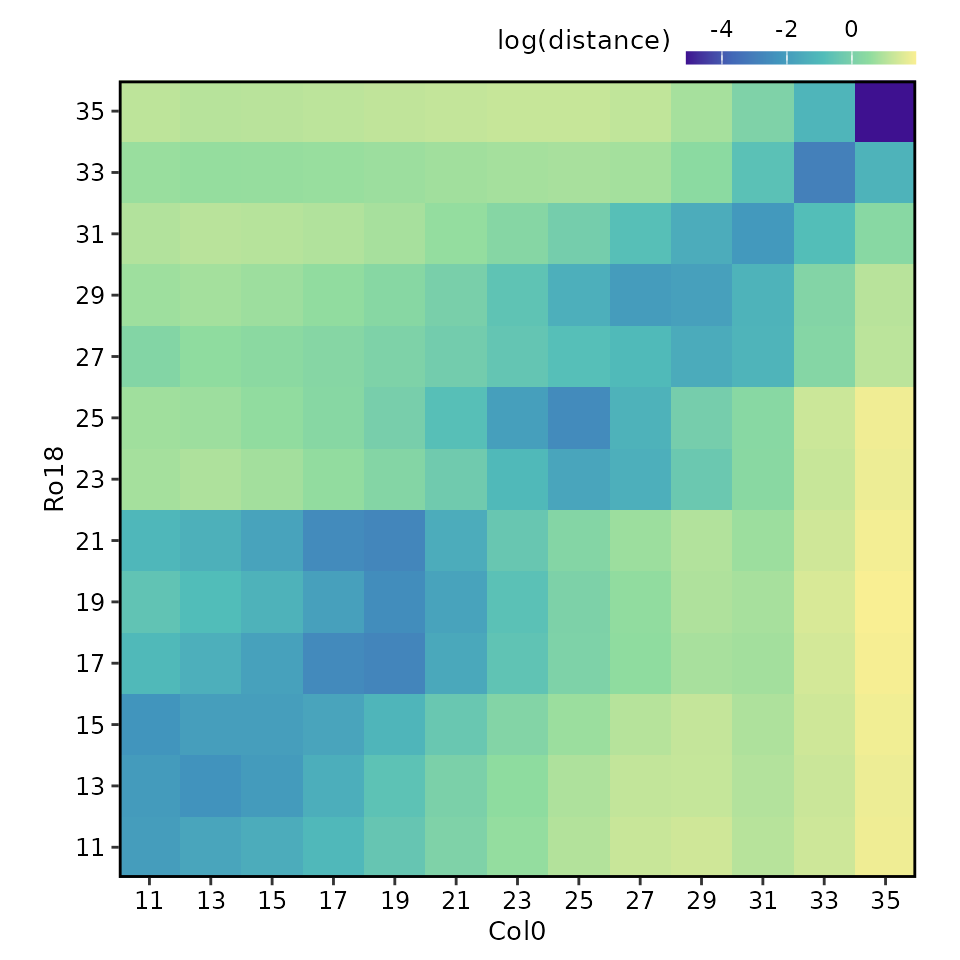
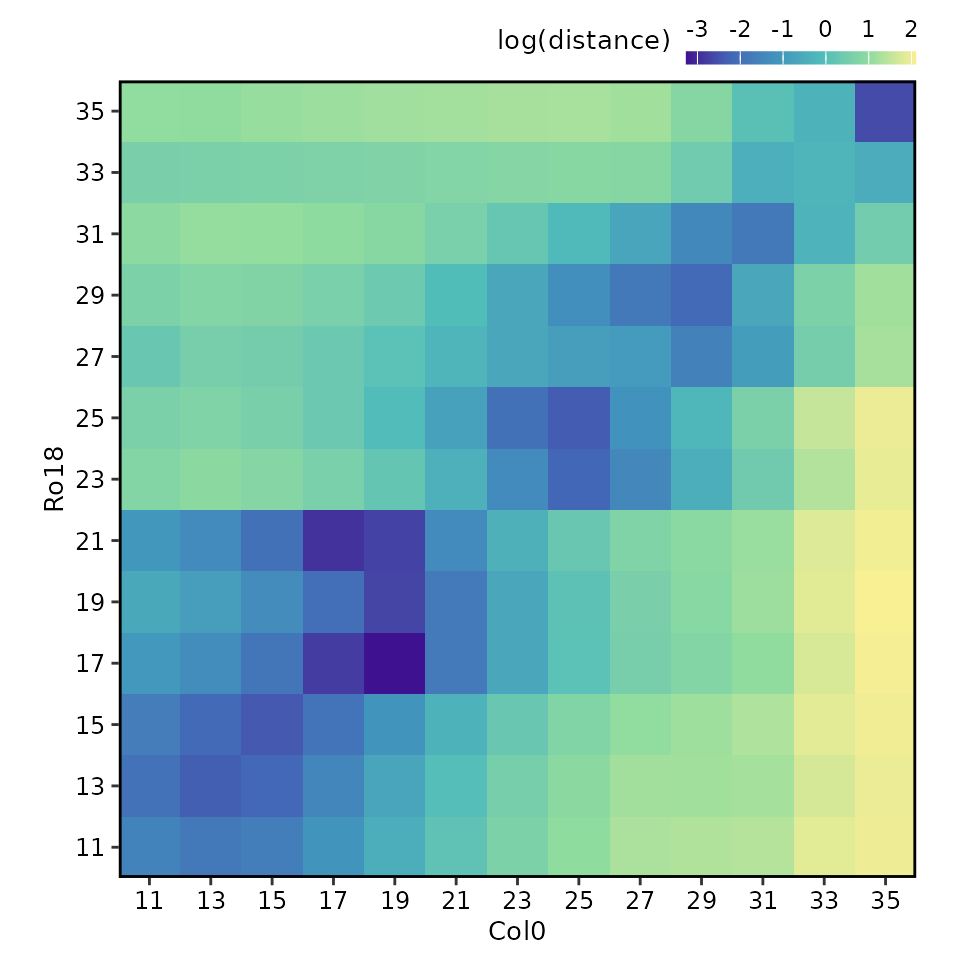
Deploying to gh-pages from @ ruthkr/greatR@0689846629e7284f2d216a2028f8a385c6f6fd16 🚀

diff --git a/articles/data-requirement.html b/articles/data-requirement.html
@@ -96,8 +96,14 @@
 
     
     
-<p>The input data required for <code>greatR</code> is a data frame that
-contains gene expression time-course data with all replicates. The
+<p>The input data required for <code>greatR</code> can be either a data
+frame, a list of data frames, or a list of vectors, as shown below:</p>
+<p><img src="figures/input_diagram.png" width="75%" style="display: block; margin: auto;"></p>
+<div class="section level2">
+<h2 id="a-single-data-frame-input">A single data frame input<a class="anchor" aria-label="anchor" href="#a-single-data-frame-input"></a>
+</h2>
+<p>The single data frame input or the data frame in the list needs to
+contain gene expression time-course data with all replicates. The
 illustrated diagram below shows the required structure of the
 <code>input</code>.</p>
 <p><img src="figures/input_table.png" width="75%" style="display: block; margin: auto;"></p>
@@ -162,7 +168,81 @@ should look like:</p>
 <td align="left">Col0-07-b</td>
 </tr>
 </tbody>
-</table></main>
+</table>
+</div>
+<div class="section level2">
+<h2 id="a-list-of-data-frames-as-an-input">A list of data frames as an input<a class="anchor" aria-label="anchor" href="#a-list-of-data-frames-as-an-input"></a>
+</h2>
+<p><img src="figures/input_list_tables.png" width="85%" style="display: block; margin: auto;"></p>
+<p>If users do not have the data <strong>reference</strong> and
+<strong>query</strong> joined with the IDs mapped into one single data
+frame, there is an option of having the input data of a list of data
+frames. As shown in the illustrative diagram above, the list must
+contain both <strong>reference</strong> and <strong>query</strong> data
+frames with the columns as required in the single data frame input (see
+previous section).</p>
+<p>Below we can see an example of how the <code>input</code> list of
+data frames should look like:</p>
+<div class="sourceCode" id="cb1"><pre class="downlit sourceCode r">
+<code class="sourceCode R"><span><span class="co"># Load data frames from the sample data</span></span>
+<span><span class="va">brapa_ref_data</span> <span class="op">&lt;-</span> <span class="fu"><a href="https://rdrr.io/r/base/system.file.html" class="external-link">system.file</a></span><span class="op">(</span><span class="st">"extdata/brapa_SOC1_data.csv"</span>, package <span class="op">=</span> <span class="st">"greatR"</span><span class="op">)</span> <span class="op">|&gt;</span></span>
+<span>  <span class="fu">data.table</span><span class="fu">::</span><span class="fu"><a href="https://rdatatable.gitlab.io/data.table/reference/fread.html" class="external-link">fread</a></span><span class="op">(</span><span class="op">)</span></span>
+<span></span>
+<span><span class="va">ara_query_data</span> <span class="op">&lt;-</span> <span class="fu"><a href="https://rdrr.io/r/base/system.file.html" class="external-link">system.file</a></span><span class="op">(</span><span class="st">"extdata/arabidopsis_SOC1_data.csv"</span>, package <span class="op">=</span> <span class="st">"greatR"</span><span class="op">)</span> <span class="op">|&gt;</span></span>
+<span>  <span class="fu">data.table</span><span class="fu">::</span><span class="fu"><a href="https://rdatatable.gitlab.io/data.table/reference/fread.html" class="external-link">fread</a></span><span class="op">(</span><span class="op">)</span></span>
+<span></span>
+<span><span class="va">list_df</span> <span class="op">&lt;-</span> <span class="fu"><a href="https://rdrr.io/r/base/list.html" class="external-link">list</a></span><span class="op">(</span></span>
+<span>  reference <span class="op">=</span> <span class="va">brapa_ref_data</span>,</span>
+<span>  query <span class="op">=</span> <span class="va">ara_query_data</span></span>
+<span><span class="op">)</span></span>
+<span></span>
+<span><span class="va">list_df</span></span>
+<span><span class="co">#&gt; $reference</span></span>
+<span><span class="co">#&gt;             gene_id accession timepoint expression_value                    replicate</span></span>
+<span><span class="co">#&gt;              &lt;char&gt;    &lt;char&gt;     &lt;int&gt;            &lt;num&gt;                       &lt;char&gt;</span></span>
+<span><span class="co">#&gt; 1: BRAA03G023790.3C      Ro18        11         1.984367  ERR_ro18_rna_seq_v3_R18A1_1</span></span>
+<span><span class="co">#&gt; 2: BRAA03G023790.3C      Ro18        11         1.474974  ERR_ro18_rna_seq_v3_R18A1_2</span></span>
+<span><span class="co">#&gt; 3: BRAA03G023790.3C      Ro18        11         2.194917  ERR_ro18_rna_seq_v3_R18A1_3</span></span>
+<span><span class="co">#&gt; 4: BRAA03G023790.3C      Ro18        29       113.797721 ERR_ro18_rna_seq_v3_R18A10_1</span></span>
+<span><span class="co">#&gt; 5: BRAA03G023790.3C      Ro18        29        94.650207 ERR_ro18_rna_seq_v3_R18A10_2</span></span>
+<span><span class="co">#&gt; 6: BRAA03G023790.3C      Ro18        29       129.176178 ERR_ro18_rna_seq_v3_R18A10_3</span></span>
+<span><span class="co">#&gt; </span></span>
+<span><span class="co">#&gt; $query</span></span>
+<span><span class="co">#&gt;      gene_id accession timepoint expression_value                   replicate</span></span>
+<span><span class="co">#&gt;       &lt;char&gt;    &lt;char&gt;     &lt;int&gt;            &lt;num&gt;                      &lt;char&gt;</span></span>
+<span><span class="co">#&gt; 1: AT2G45660      Col0        15         76.95936 ERR_ds_klepikova_SRR1688425</span></span>
+<span><span class="co">#&gt; 2: AT2G45660      Col0        14         81.96151 ERR_ds_klepikova_SRR1688328</span></span>
+<span><span class="co">#&gt; 3: AT2G45660      Col0        16         59.24077 ERR_ds_klepikova_SRR1688427</span></span>
+<span><span class="co">#&gt; 4: AT2G45660      Col0        15         68.85581 ERR_ds_klepikova_SRR1688426</span></span>
+<span><span class="co">#&gt; 5: AT2G45660      Col0        12         64.21780 ERR_ds_klepikova_SRR2106520</span></span>
+<span><span class="co">#&gt; 6: AT2G45660      Col0        10         72.98476 ERR_ds_klepikova_SRR1661475</span></span></code></pre></div>
+<p>Note here that the elements of the list needs to be named
+<strong>reference</strong> and <strong>query</strong>, the order of the
+element will not effect the registration process.</p>
+</div>
+<div class="section level2">
+<h2 id="a-list-of-vectors-as-an-input">A list of vectors as an input<a class="anchor" aria-label="anchor" href="#a-list-of-vectors-as-an-input"></a>
+</h2>
+<p><img src="figures/input_list_vectors.png" width="38%" style="display: block; margin: auto;"></p>
+<div class="sourceCode" id="cb2"><pre class="downlit sourceCode r">
+<code class="sourceCode R"><span><span class="co"># Define expression value vectors</span></span>
+<span><span class="va">ref_expressions</span> <span class="op">&lt;-</span> <span class="fu"><a href="https://rdrr.io/r/base/c.html" class="external-link">c</a></span><span class="op">(</span><span class="fl">1.9</span>, <span class="fl">3.1</span>, <span class="fl">7.8</span>, <span class="fl">31.6</span>, <span class="fl">33.7</span>, <span class="fl">31.5</span>, <span class="fl">131.4</span>, <span class="fl">107.5</span>, <span class="fl">116.7</span>, <span class="fl">112.5</span>, <span class="fl">109.7</span>, <span class="fl">57.4</span>, <span class="fl">50.9</span><span class="op">)</span></span>
+<span><span class="va">query_expressions</span> <span class="op">&lt;-</span> <span class="fu"><a href="https://rdrr.io/r/base/c.html" class="external-link">c</a></span><span class="op">(</span><span class="fl">14</span>, <span class="fl">12.1</span>, <span class="fl">15.9</span>, <span class="fl">47</span>, <span class="fl">30.9</span>, <span class="fl">50.5</span>, <span class="fl">80.1</span>, <span class="fl">67.4</span>, <span class="fl">72.9</span>, <span class="fl">61.7</span><span class="op">)</span></span>
+<span></span>
+<span><span class="va">list_vector</span> <span class="op">&lt;-</span> <span class="fu"><a href="https://rdrr.io/r/base/list.html" class="external-link">list</a></span><span class="op">(</span></span>
+<span>  reference <span class="op">=</span> <span class="va">ref_expressions</span>,</span>
+<span>  query <span class="op">=</span> <span class="va">query_expressions</span></span>
+<span><span class="op">)</span></span>
+<span></span>
+<span><span class="va">list_vector</span></span>
+<span><span class="co">#&gt; $reference</span></span>
+<span><span class="co">#&gt;  [1]   1.9   3.1   7.8  31.6  33.7  31.5 131.4 107.5 116.7 112.5 109.7  57.4  50.9</span></span>
+<span><span class="co">#&gt; </span></span>
+<span><span class="co">#&gt; $query</span></span>
+<span><span class="co">#&gt;  [1] 14.0 12.1 15.9 47.0 30.9 50.5 80.1 67.4 72.9 61.7</span></span></code></pre></div>
+</div>
+  </main><aside class="col-md-3"><nav id="toc"><h2>On this page</h2>
+    </nav></aside>
 </div>
 
 

diff --git a/articles/register-data.html b/articles/register-data.html
@@ -240,10 +240,10 @@ the other function paramaters, go to <code><a href="../reference/register.html">
 <span><span class="co">#&gt; ℹ Using `scaling_method` = "z-score".</span></span>
 <span><span class="co">#&gt;</span></span>
 <span><span class="co">#&gt; ── Starting registration with optimisation ──────────────────────────────────────</span></span>
-<span><span class="co">#&gt; ℹ Using Nelder-Mead method.</span></span>
+<span><span class="co">#&gt; ℹ Using L-BFGS-B optimisation method.</span></span>
 <span><span class="co">#&gt; ℹ Using computed stretches and shifts search space limits.</span></span>
 <span><span class="co">#&gt; ℹ Using `overlapping_percent` = 50% as a registration criterion.</span></span>
-<span><span class="co">#&gt; ✔ Optimising registration parameters for genes (10/10) [5.4s]</span></span></code></pre></div>
+<span><span class="co">#&gt; ✔ Optimising registration parameters for genes (10/10) [2s]</span></span></code></pre></div>
 </div>
 <div class="section level2">
 <h2 id="registration-results">Registration results<a class="anchor" aria-label="anchor" href="#registration-results"></a>
@@ -282,72 +282,72 @@ registration result.</p>
 <tbody>
 <tr class="odd">
 <td align="left">BRAA02G018970.3C</td>
-<td align="right">2.046549</td>
-<td align="right">-2.020257</td>
-<td align="right">4.632041</td>
+<td align="right">4.000000</td>
+<td align="right">-30.978998</td>
+<td align="right">2.830103</td>
 <td align="left">FALSE</td>
 </tr>
 <tr class="even">
 <td align="left">BRAA02G043220.3C</td>
-<td align="right">2.451984</td>
-<td align="right">-10.602478</td>
-<td align="right">-3.571540</td>
+<td align="right">2.451533</td>
+<td align="right">-10.595789</td>
+<td align="right">-3.571541</td>
 <td align="left">TRUE</td>
 </tr>
 <tr class="odd">
 <td align="left">BRAA03G023790.3C</td>
-<td align="right">2.249602</td>
-<td align="right">-4.343221</td>
-<td align="right">-7.849100</td>
+<td align="right">2.250665</td>
+<td align="right">-4.358395</td>
+<td align="right">-7.849111</td>
 <td align="left">TRUE</td>
 </tr>
 <tr class="even">
 <td align="left">BRAA03G051930.3C</td>
-<td align="right">3.098722</td>
-<td align="right">-12.551373</td>
-<td align="right">-8.096671</td>
+<td align="right">3.099925</td>
+<td align="right">-12.564349</td>
+<td align="right">-8.096682</td>
 <td align="left">TRUE</td>
 </tr>
 <tr class="odd">
 <td align="left">BRAA04G005470.3C</td>
-<td align="right">3.526841</td>
-<td align="right">-20.233981</td>
-<td align="right">-7.540002</td>
+<td align="right">3.527640</td>
+<td align="right">-20.246481</td>
+<td align="right">-7.540003</td>
 <td align="left">TRUE</td>
 </tr>
 <tr class="even">
 <td align="left">BRAA05G005370.3C</td>
-<td align="right">2.275279</td>
-<td align="right">-5.028801</td>
-<td align="right">-7.726490</td>
+<td align="right">2.275328</td>
+<td align="right">-5.030457</td>
+<td align="right">-7.726491</td>
 <td align="left">TRUE</td>
 </tr>
 <tr class="odd">
 <td align="left">BRAA06G025360.3C</td>
-<td align="right">2.382647</td>
-<td align="right">-8.015831</td>
-<td align="right">-6.502888</td>
+<td align="right">2.383370</td>
+<td align="right">-8.024893</td>
+<td align="right">-6.502890</td>
 <td align="left">TRUE</td>
 </tr>
 <tr class="even">
 <td align="left">BRAA07G030470.3C</td>
-<td align="right">5.390329</td>
-<td align="right">-46.965873</td>
-<td align="right">-6.722302</td>
+<td align="right">4.000000</td>
+<td align="right">-27.031933</td>
+<td align="right">-5.450813</td>
 <td align="left">TRUE</td>
 </tr>
 <tr class="odd">
 <td align="left">BRAA07G034100.3C</td>
-<td align="right">5.819373</td>
-<td align="right">-53.041168</td>
-<td align="right">-6.001962</td>
+<td align="right">4.000000</td>
+<td align="right">-27.237508</td>
+<td align="right">-3.927756</td>
 <td align="left">TRUE</td>
 </tr>
 <tr class="even">
 <td align="left">BRAA09G045310.3C</td>
-<td align="right">3.381306</td>
-<td align="right">-17.908994</td>
-<td align="right">-7.690014</td>
+<td align="right">3.381275</td>
+<td align="right">-17.908895</td>
+<td align="right">-7.690015</td>
 <td align="left">TRUE</td>
 </tr>
 </tbody>

diff --git a/reference/register.html b/reference/register.html
@@ -75,7 +75,7 @@ wishes to compare.</p>
 <span>  scaling_method <span class="op">=</span> <span class="fu"><a href="https://rdrr.io/r/base/c.html" class="external-link">c</a></span><span class="op">(</span><span class="st">"none"</span>, <span class="st">"z-score"</span>, <span class="st">"min-max"</span><span class="op">)</span>,</span>
 <span>  overlapping_percent <span class="op">=</span> <span class="fl">50</span>,</span>
 <span>  use_optimisation <span class="op">=</span> <span class="cn">TRUE</span>,</span>
-<span>  optimisation_method <span class="op">=</span> <span class="fu"><a href="https://rdrr.io/r/base/c.html" class="external-link">c</a></span><span class="op">(</span><span class="st">"nm"</span>, <span class="st">"lbfgsb"</span>, <span class="st">"sa"</span><span class="op">)</span>,</span>
+<span>  optimisation_method <span class="op">=</span> <span class="fu"><a href="https://rdrr.io/r/base/c.html" class="external-link">c</a></span><span class="op">(</span><span class="st">"lbfgsb"</span>, <span class="st">"nm"</span>, <span class="st">"sa"</span><span class="op">)</span>,</span>
 <span>  optimisation_config <span class="op">=</span> <span class="cn">NULL</span>,</span>
 <span>  exp_sd <span class="op">=</span> <span class="cn">NA</span>,</span>
 <span>  num_cores <span class="op">=</span> <span class="cn">NA</span></span>
@@ -117,7 +117,7 @@ wishes to compare.</p>
 
 
 <dt>optimisation_method</dt>
-<dd><p>Optimisation method to use. Either <code>"nm"</code> for Nelder-Mead (default), <code>"lbfgsb"</code> for L-BFGS-B, or <code>"sa"</code> for Simulated Annealing.</p></dd>
+<dd><p>Optimisation method to use. Either <code>"lbfgsb"</code> for L-BFGS-B (default), <code>"nm"</code> for Nelder-Mead, or <code>"sa"</code> for Simulated Annealing.</p></dd>
 
 
 <dt>optimisation_config</dt>

diff --git a/reference/plot.html b/reference/plot.html
@@ -90,6 +90,7 @@
 <span>  type_dist <span class="op">=</span> <span class="fu"><a href="https://rdrr.io/r/base/c.html" class="external-link">c</a></span><span class="op">(</span><span class="st">"histogram"</span>, <span class="st">"density"</span><span class="op">)</span>,</span>
 <span>  bins <span class="op">=</span> <span class="fl">30</span>,</span>
 <span>  alpha <span class="op">=</span> <span class="cn">NA</span>,</span>
+<span>  scatterplot_size <span class="op">=</span> <span class="fu"><a href="https://rdrr.io/r/base/c.html" class="external-link">c</a></span><span class="op">(</span><span class="fl">4</span>, <span class="fl">3</span><span class="op">)</span>,</span>
 <span>  title <span class="op">=</span> <span class="cn">NULL</span>,</span>
 <span>  <span class="va">...</span></span>
 <span><span class="op">)</span></span></code></pre></div>
@@ -144,6 +145,10 @@
 
 <dt>alpha</dt>
 <dd><p>Optional opacity of the points in the scatterplot.</p></dd>
+
+
+<dt>scatterplot_size</dt>
+<dd><p>Vector <code>c(width, height)</code> specifying the ratio of width and height of the scatterplot with respect to stretch and shift distribution plots.</p></dd>
 
 </dl></div>
     <div class="section level2">

diff --git a/index.html b/index.html
@@ -140,10 +140,10 @@
 <span><span class="co">#&gt; ℹ Using `scaling_method` = "z-score".</span></span>
 <span><span class="co">#&gt;</span></span>
 <span><span class="co">#&gt; ── Starting registration with optimisation ──────────────────────────────────────</span></span>
-<span><span class="co">#&gt; ℹ Using Nelder-Mead method.</span></span>
+<span><span class="co">#&gt; ℹ Using L-BFGS-B optimisation method.</span></span>
 <span><span class="co">#&gt; ℹ Using computed stretches and shifts search space limits.</span></span>
 <span><span class="co">#&gt; ℹ Using `overlapping_percent` = 50% as a registration criterion.</span></span>
-<span><span class="co">#&gt; ✔ Optimising registration parameters for genes (10/10) [5.4s]</span></span></code></pre></div>
+<span><span class="co">#&gt; ✔ Optimising registration parameters for genes (10/10) [2s]</span></span></code></pre></div>
 </div>
 <div class="section level2">
 <h2 id="reference">Reference<a class="anchor" aria-label="anchor" href="#reference"></a>

diff --git a/articles/visualise-results.html b/articles/visualise-results.html
@@ -146,11 +146,11 @@ accessions or IDs.</li>
 </tr>
 <tr class="even">
 <td align="left">Stretch</td>
-<td align="left">[2.25, 5.82]</td>
+<td align="left">[2.25, 4]</td>
 </tr>
 <tr class="odd">
 <td align="left">Shift</td>
-<td align="left">[-53.04, -4.34]</td>
+<td align="left">[-27.24, -4.36]</td>
 </tr>
 </tbody>
 </table>
